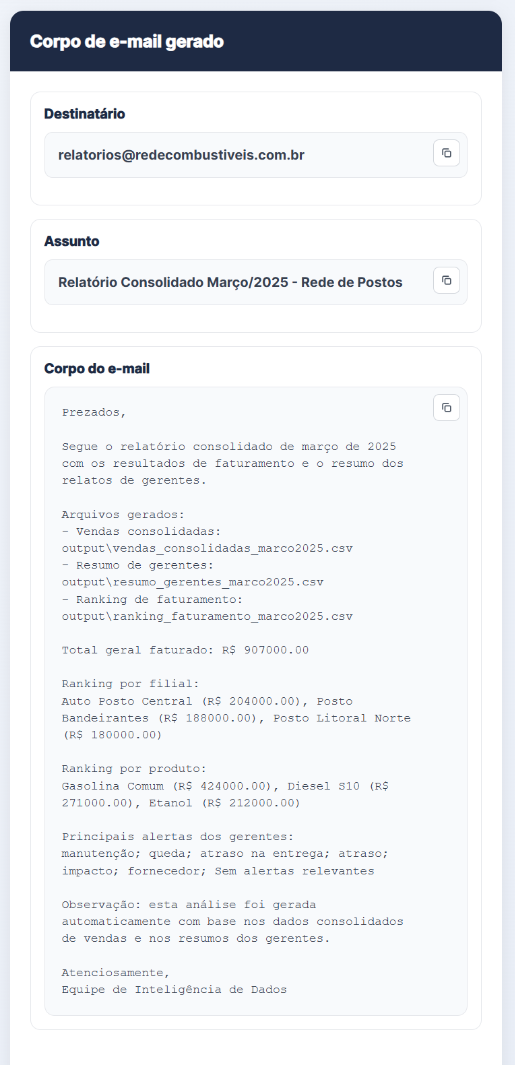
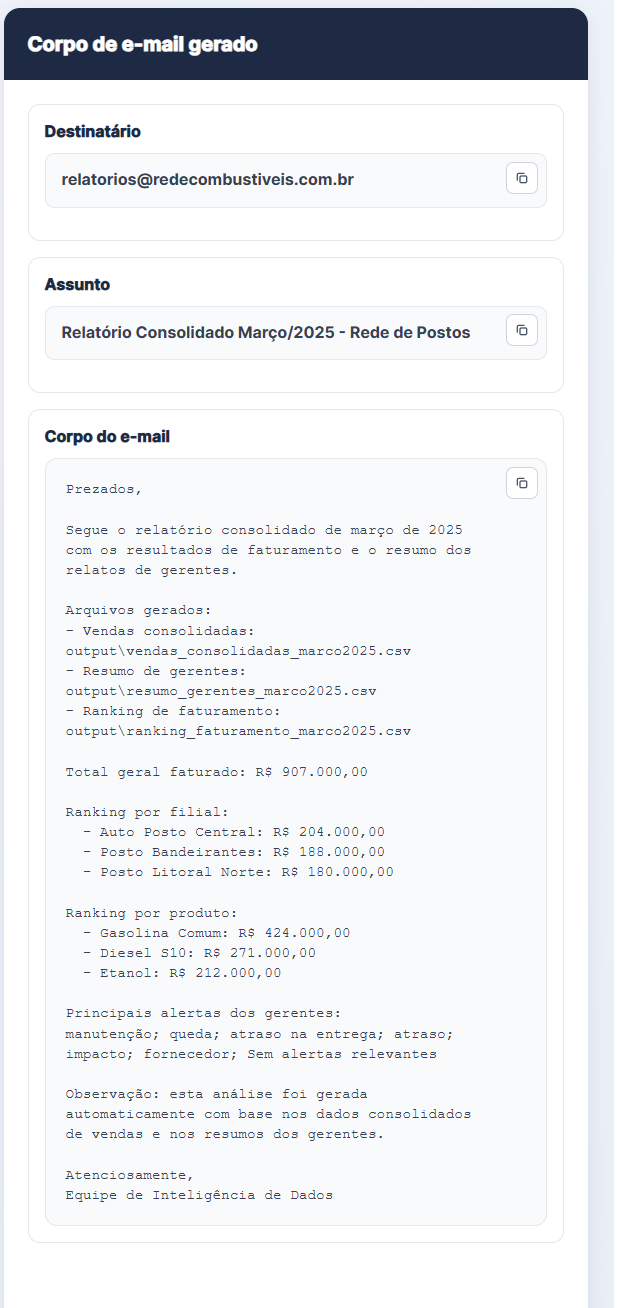
docs(readme): Atualizacao final

diff --git a/README.md b/README.md
@@ -22,7 +22,7 @@ A solução automatiza uma rotina de análise da sede de uma rede fictícia de p
 - Uso da Gemini API apenas para resumir textos narrativos dos gerentes.
 - Fallback local para resumo de e-mails quando a IA falha ou atinge limite de cota.
 - Geração de ranking por filial e por produto.
-- Geração de corpo de e-mail sugerido para envio à sede.
+- Geração de corpo de e-mail sugerido para envio à sede, com valores no padrão brasileiro e rankings quebrados por linha.
 - Geração de PDF sob demanda.
 - Exportação local dos arquivos finais em pasta datada.
 
@@ -197,6 +197,12 @@ Ao clicar em `Gerar PDF`:
 
 ## Exemplos versionados
 
+A pasta abaixo contém os arquivos de entrada do case, reunindo CSVs de vendas e TXTs de e-mails dos gerentes:
+
+```text
+emails-vendas/
+```
+
 A pasta abaixo contém exemplos finais versionados no GitHub:
 
 ```text
@@ -260,6 +266,7 @@ Visão geral da aplicação após o processamento completo dos arquivos.
 - `app/cache/` - cache interno de preços, ignorado pelo Git.
 - `app/templates/` - templates HTML.
 - `app/static/` - estilos CSS.
+- `emails-vendas/` - arquivos de exemplo do case para entrada, com vendas e e-mails.
 - `vendas/` - arquivos CSV de entrada.
 - `emails/` - arquivos TXT de entrada.
 - `output/` - arquivos gerados localmente, ignorados pelo Git.
